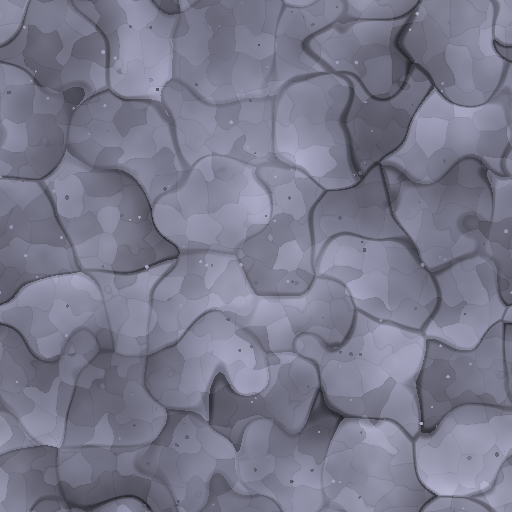
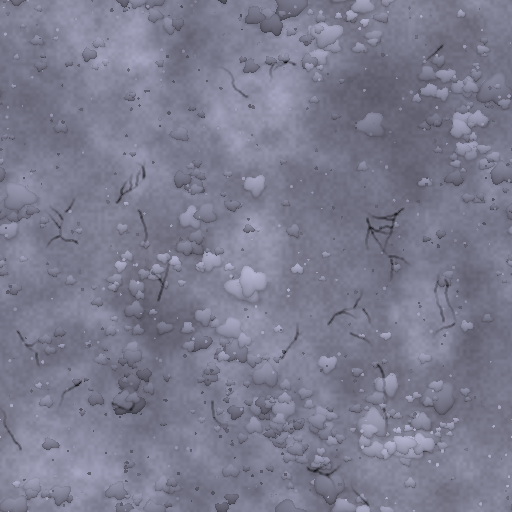
feat: natural rough rock ground (no flagstone pattern)

diff --git a/Assets/Game/Scripts/Look/GroundTexturePainter.cs b/Assets/Game/Scripts/Look/GroundTexturePainter.cs
@@ -118,43 +118,130 @@ public static class GroundTexturePainter
         Scatter(tone, height, rng, 140, 1f, 2.6f, 0.3f, 0.5f, 0.4f);
     }
 
+    // Natural rough ground: mottled earth and eroded rock patches, clustered stones with lit tops and dark undersides, short broken cracks.
     static void PaintRock(int seed, float[] tone, float[] height)
     {
-        Cells big = Worley(6, seed + 1, 0.35f);
-        Cells small = Worley(17, seed + 2, 0.3f);
-        float[] grain = Fbm(24, 2, seed + 3);
-        float[] wash = Fbm(4, 3, seed + 4);
-        float[] broken = Fbm(8, 2, seed + 6);
-        System.Random rng = new System.Random(seed + 5);
-        float[] bigTone = new float[6 * 6];
-        float[] bigHeight = new float[6 * 6];
-        float[] bigAx = new float[6 * 6];
-        float[] bigAy = new float[6 * 6];
-        for (int i = 0; i < bigTone.Length; i++)
+        float[] warpA = Fbm(3, 2, seed + 1);
+        float[] warpB = Fbm(3, 2, seed + 2);
+        float[] patch = Fbm(4, 4, seed + 3);
+        float[] lumps = Fbm(11, 3, seed + 4);
+        float[] erode = Fbm(26, 2, seed + 5);
+        float[] brush = LatticeXY(14, 5, seed + 6);
+        float[] fine = Lattice(150, seed + 7);
+        for (int y = 0; y < Size; y++)
         {
-            bigTone[i] = (float)rng.NextDouble() - 0.5f;
-            bigHeight[i] = (float)rng.NextDouble();
-            bigAx[i] = (float)rng.NextDouble() * 2f - 1f;
-            bigAy[i] = (float)rng.NextDouble() * 2f - 1f;
+            for (int x = 0; x < Size; x++)
+            {
+                int i = y * Size + x;
+                // Warped patch mask: soft rock areas inside earth.
+                int sx = Wrap(x + Mathf.RoundToInt((warpA[i] - 0.5f) * 120f));
+                int sy = Wrap(y + Mathf.RoundToInt((warpB[i] - 0.5f) * 120f));
+                float m = SmoothStep(0.38f, 0.66f, patch[sy * Size + sx]);
+                float rockiness = m * (0.6f + 0.4f * SmoothStep(0.35f, 0.7f, erode[i]));
+                tone[i] = (m - 0.5f) * 0.22f + (lumps[i] - 0.5f) * 0.24f + (erode[i] - 0.5f) * 0.2f * (0.5f + m) + (brush[i] - 0.5f) * 0.12f + (fine[i] - 0.5f) * 0.1f;
+                height[i] = 0.25f + rockiness * 0.22f + (lumps[i] - 0.5f) * 0.4f + (erode[i] - 0.5f) * 0.12f + (fine[i] - 0.5f) * 0.1f;
+            }
         }
 
-        float[] smallTone = new float[17 * 17];
-        for (int i = 0; i < smallTone.Length; i++)
+        System.Random rng = new System.Random(seed + 8);
+        // Clusters of stones, plus a thin even sprinkle.
+        for (int c = 0; c < 22; c++)
         {
-            smallTone[i] = (float)rng.NextDouble() - 0.5f;
+            float cx = (float)rng.NextDouble() * Size;
+            float cy = (float)rng.NextDouble() * Size;
+            float spread = 30f + (float)rng.NextDouble() * 50f;
+            int n = 8 + rng.Next(14);
+            for (int k = 0; k < n; k++)
+            {
+                float px = cx + Gauss(rng) * spread;
+                float py = cy + Gauss(rng) * spread;
+                float r = 2.5f + (float)rng.NextDouble() * (float)rng.NextDouble() * 16f;
+                Stone(tone, height, rng, px, py, r);
+            }
         }
 
-        for (int i = 0; i < tone.Length; i++)
+        for (int k = 0; k < 90; k++)
         {
-            int b = big.id[i];
-            float crack = (1f - SmoothStep(0.025f, 0.1f, big.f2[i] - big.f1[i])) * (0.35f + 0.65f * SmoothStep(0.3f, 0.6f, broken[i]));
-            float chip = 1f - SmoothStep(0f, 0.06f, small.f2[i] - small.f1[i]);
-            float plane = bigAx[b] * big.dx[i] + bigAy[b] * big.dy[i];
-            tone[i] = bigTone[b] * 0.26f + plane * 0.35f + (wash[i] - 0.5f) * 0.14f + smallTone[small.id[i]] * 0.2f + (grain[i] - 0.5f) * 0.14f - crack * 0.32f - chip * 0.07f;
-            height[i] = 0.3f + bigHeight[b] * 0.35f + plane * 0.5f + smallTone[small.id[i]] * 0.1f + (grain[i] - 0.5f) * 0.08f - crack * 0.45f - chip * 0.05f;
+            Stone(tone, height, rng, (float)rng.NextDouble() * Size, (float)rng.NextDouble() * Size, 2f + (float)rng.NextDouble() * 5f);
         }
 
-        Scatter(tone, height, rng, 160, 0.8f, 2.2f, 0.28f, 0.5f, 0.3f);
+        Scatter(tone, height, rng, 500, 0.8f, 2f, 0.28f, 0.5f, 0.3f);
+        for (int k = 0; k < 22; k++)
+        {
+            Crack(tone, height, rng, (float)rng.NextDouble() * Size, (float)rng.NextDouble() * Size, (float)rng.NextDouble() * Mathf.PI * 2f, 22f + (float)rng.NextDouble() * 40f, 0);
+        }
+    }
+
+    static float Gauss(System.Random rng)
+    {
+        return (float)(rng.NextDouble() + rng.NextDouble() + rng.NextDouble() - 1.5);
+    }
+
+    // One irregular stone: lit on its upper side, dark underneath, with a small contact shadow below it.
+    static void Stone(float[] tone, float[] height, System.Random rng, float cx, float cy, float r)
+    {
+        float squash = 0.65f + (float)rng.NextDouble() * 0.35f;
+        float p1 = (float)rng.NextDouble() * 6.28f;
+        float p2 = (float)rng.NextDouble() * 6.28f;
+        float own = ((float)rng.NextDouble() - 0.5f) * 0.3f;
+        float top = 0.3f + (float)rng.NextDouble() * 0.15f;
+        int ir = Mathf.CeilToInt(r * 1.4f) + 2;
+        for (int oy = -ir; oy <= ir; oy++)
+        {
+            for (int ox = -ir; ox <= ir; ox++)
+            {
+                int px = Mathf.FloorToInt(cx) + ox;
+                int py = Mathf.FloorToInt(cy) + oy;
+                float dx = px + 0.5f - cx;
+                float dy = py + 0.5f - cy;
+                float ang = Mathf.Atan2(dy, dx);
+                float rr = r * (1f + 0.18f * Mathf.Sin(3f * ang + p1) + 0.1f * Mathf.Sin(5f * ang + p2));
+                float u = Mathf.Sqrt(dx * dx + dy * dy / (squash * squash)) / rr;
+                int i = Wrap(py) * Size + Wrap(px);
+                if (u >= 1f)
+                {
+                    // Contact shadow just below the stone (texture y is up, so below is smaller y).
+                    if (u < 1.35f && dy < 0f)
+                    {
+                        tone[i] -= 0.1f * (1.35f - u) / 0.35f;
+                    }
+
+                    continue;
+                }
+
+                float dome = Mathf.Sqrt(1f - u * u);
+                float light = dy / (rr * squash);
+                tone[i] = own + light * 0.18f + (dome - 0.5f) * 0.12f - (u > 0.8f ? (u - 0.8f) * 0.5f : 0f);
+                height[i] = Mathf.Max(height[i], 0.22f + top * dome);
+            }
+        }
+    }
+
+    // Short broken crack: a wobbling walk that sometimes forks once. Never encloses cells.
+    static void Crack(float[] tone, float[] height, System.Random rng, float x, float y, float dir, float length, int depth)
+    {
+        for (float s = 0f; s < length; s += 1f)
+        {
+            dir += ((float)rng.NextDouble() - 0.5f) * 0.5f;
+            x += Mathf.Cos(dir);
+            y += Mathf.Sin(dir);
+            float fade = 1f - s / length;
+            for (int oy = -1; oy <= 1; oy++)
+            {
+                for (int ox = -1; ox <= 1; ox++)
+                {
+                    float w = (ox == 0 && oy == 0 ? 1f : 0.45f) * fade;
+                    int i = Wrap(Mathf.FloorToInt(y) + oy) * Size + Wrap(Mathf.FloorToInt(x) + ox);
+                    tone[i] -= 0.22f * w;
+                    height[i] -= 0.2f * w;
+                }
+            }
+
+            if (depth < 1 && s > 6f && rng.NextDouble() < 0.04)
+            {
+                Crack(tone, height, rng, x, y, dir + (rng.NextDouble() < 0.5 ? 0.7f : -0.7f), length * 0.5f, depth + 1);
+            }
+        }
     }
 
     // Grass ground and moss: clumpy patches with dark gaps between them, plus small leaf-litter specks.
